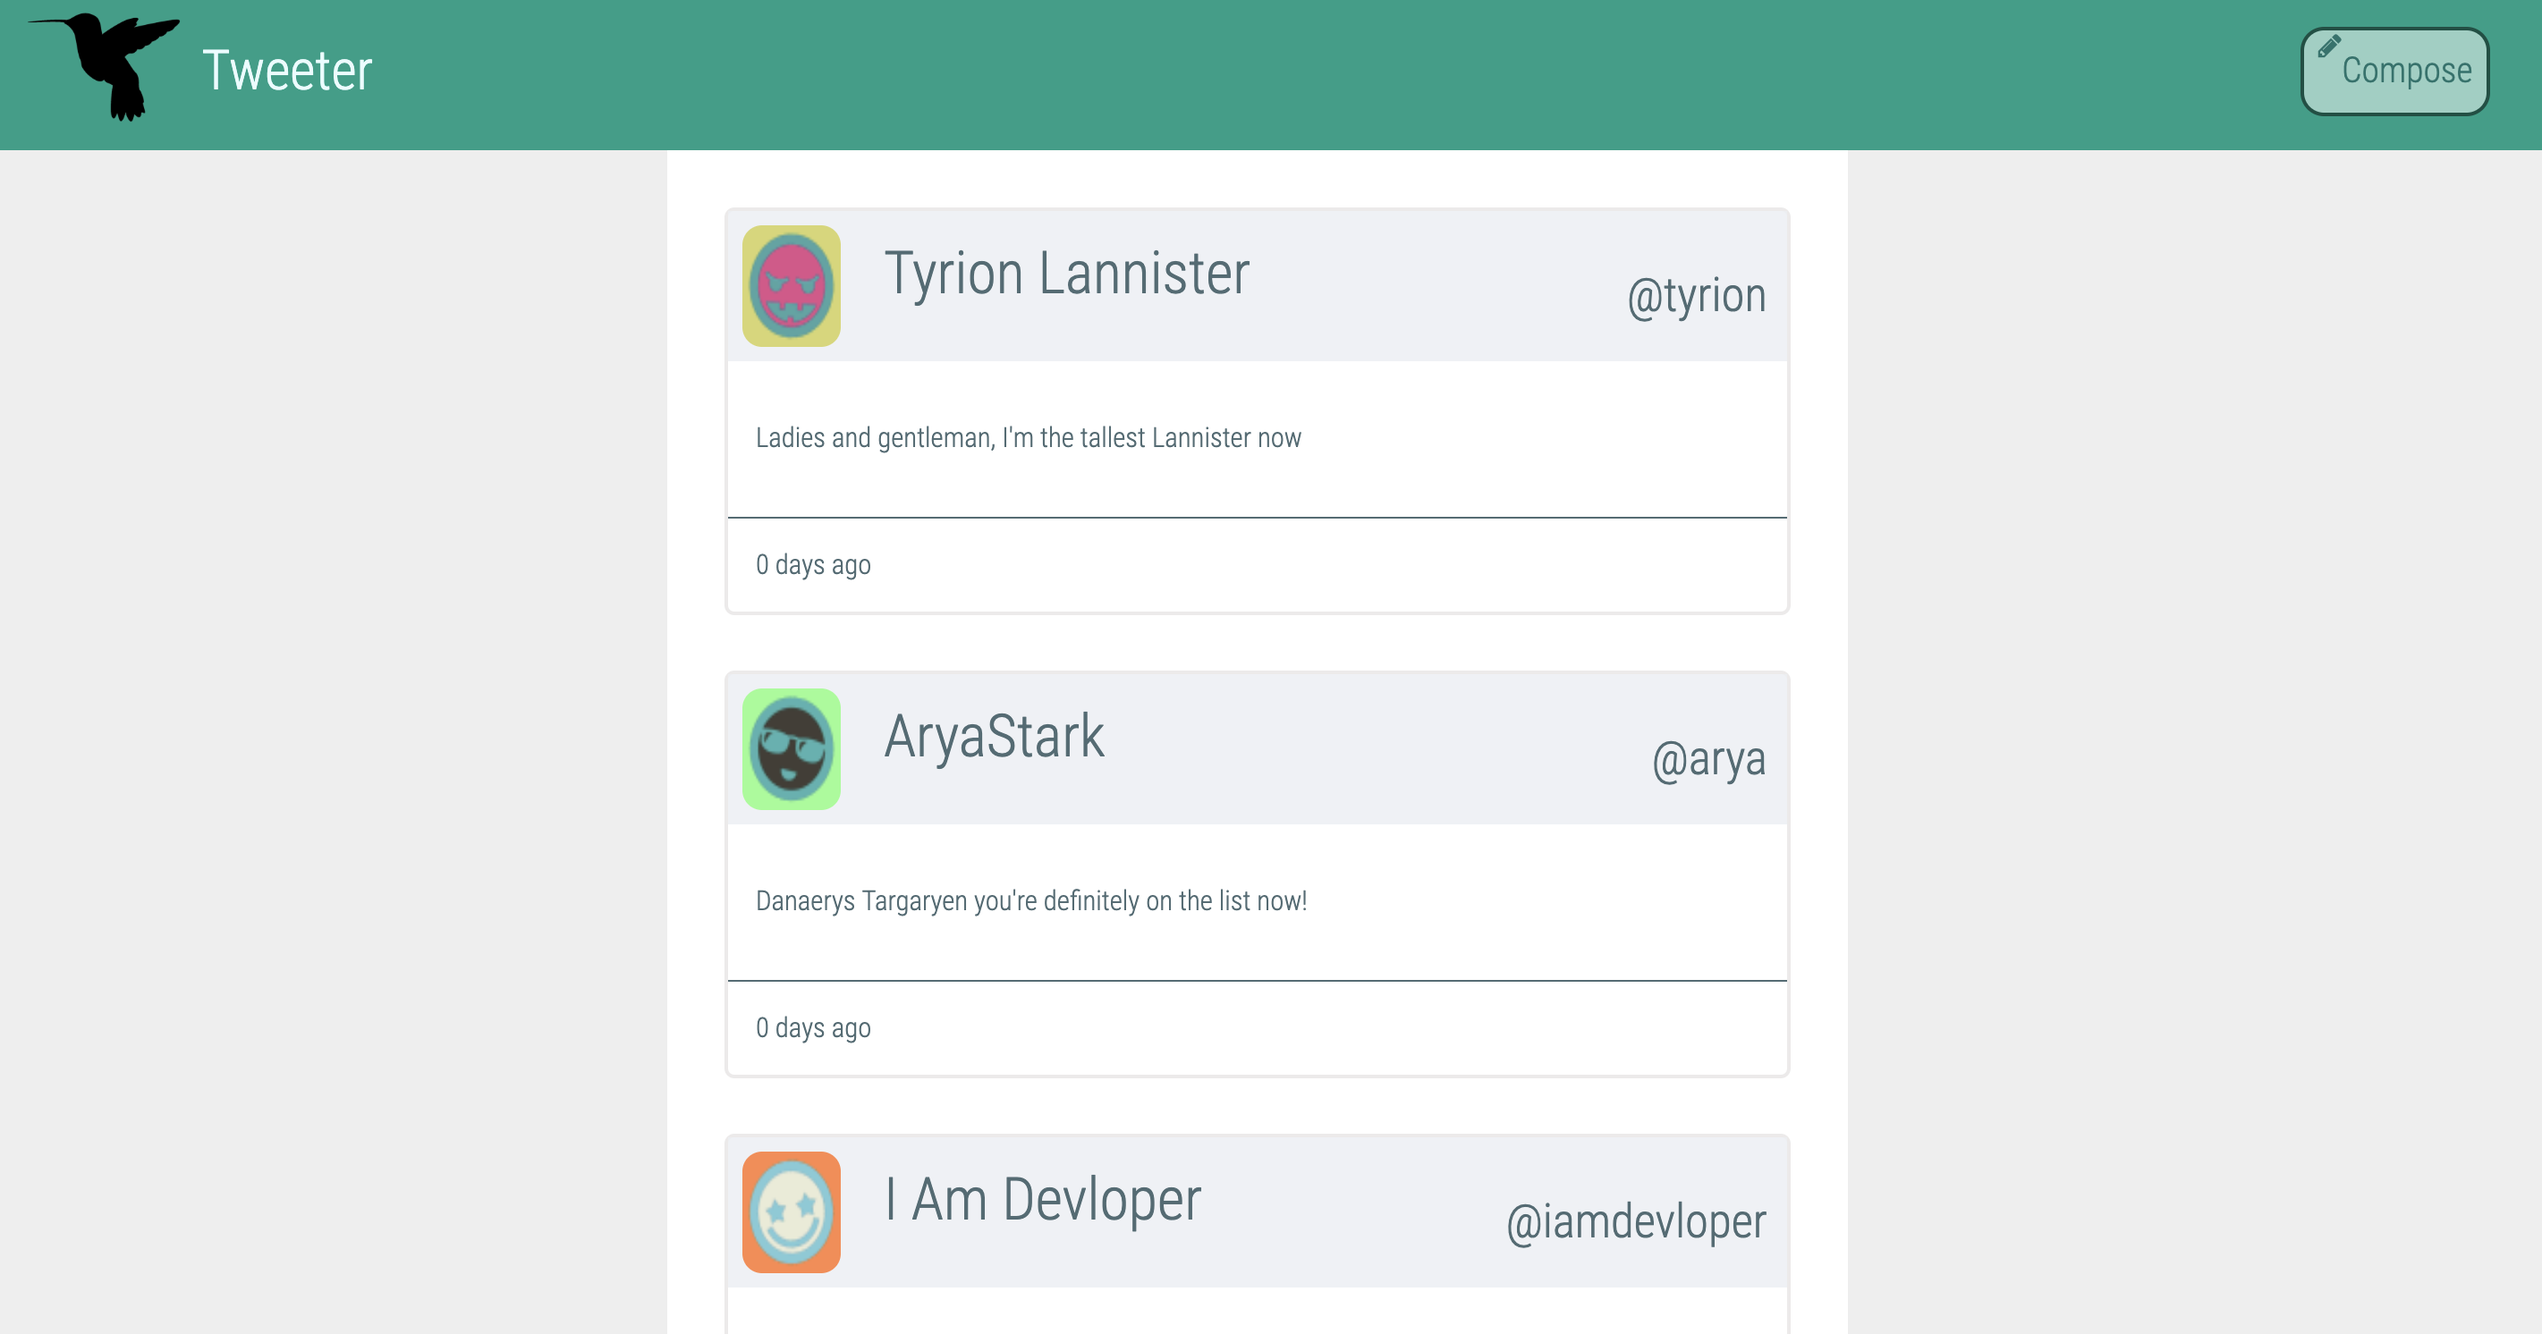
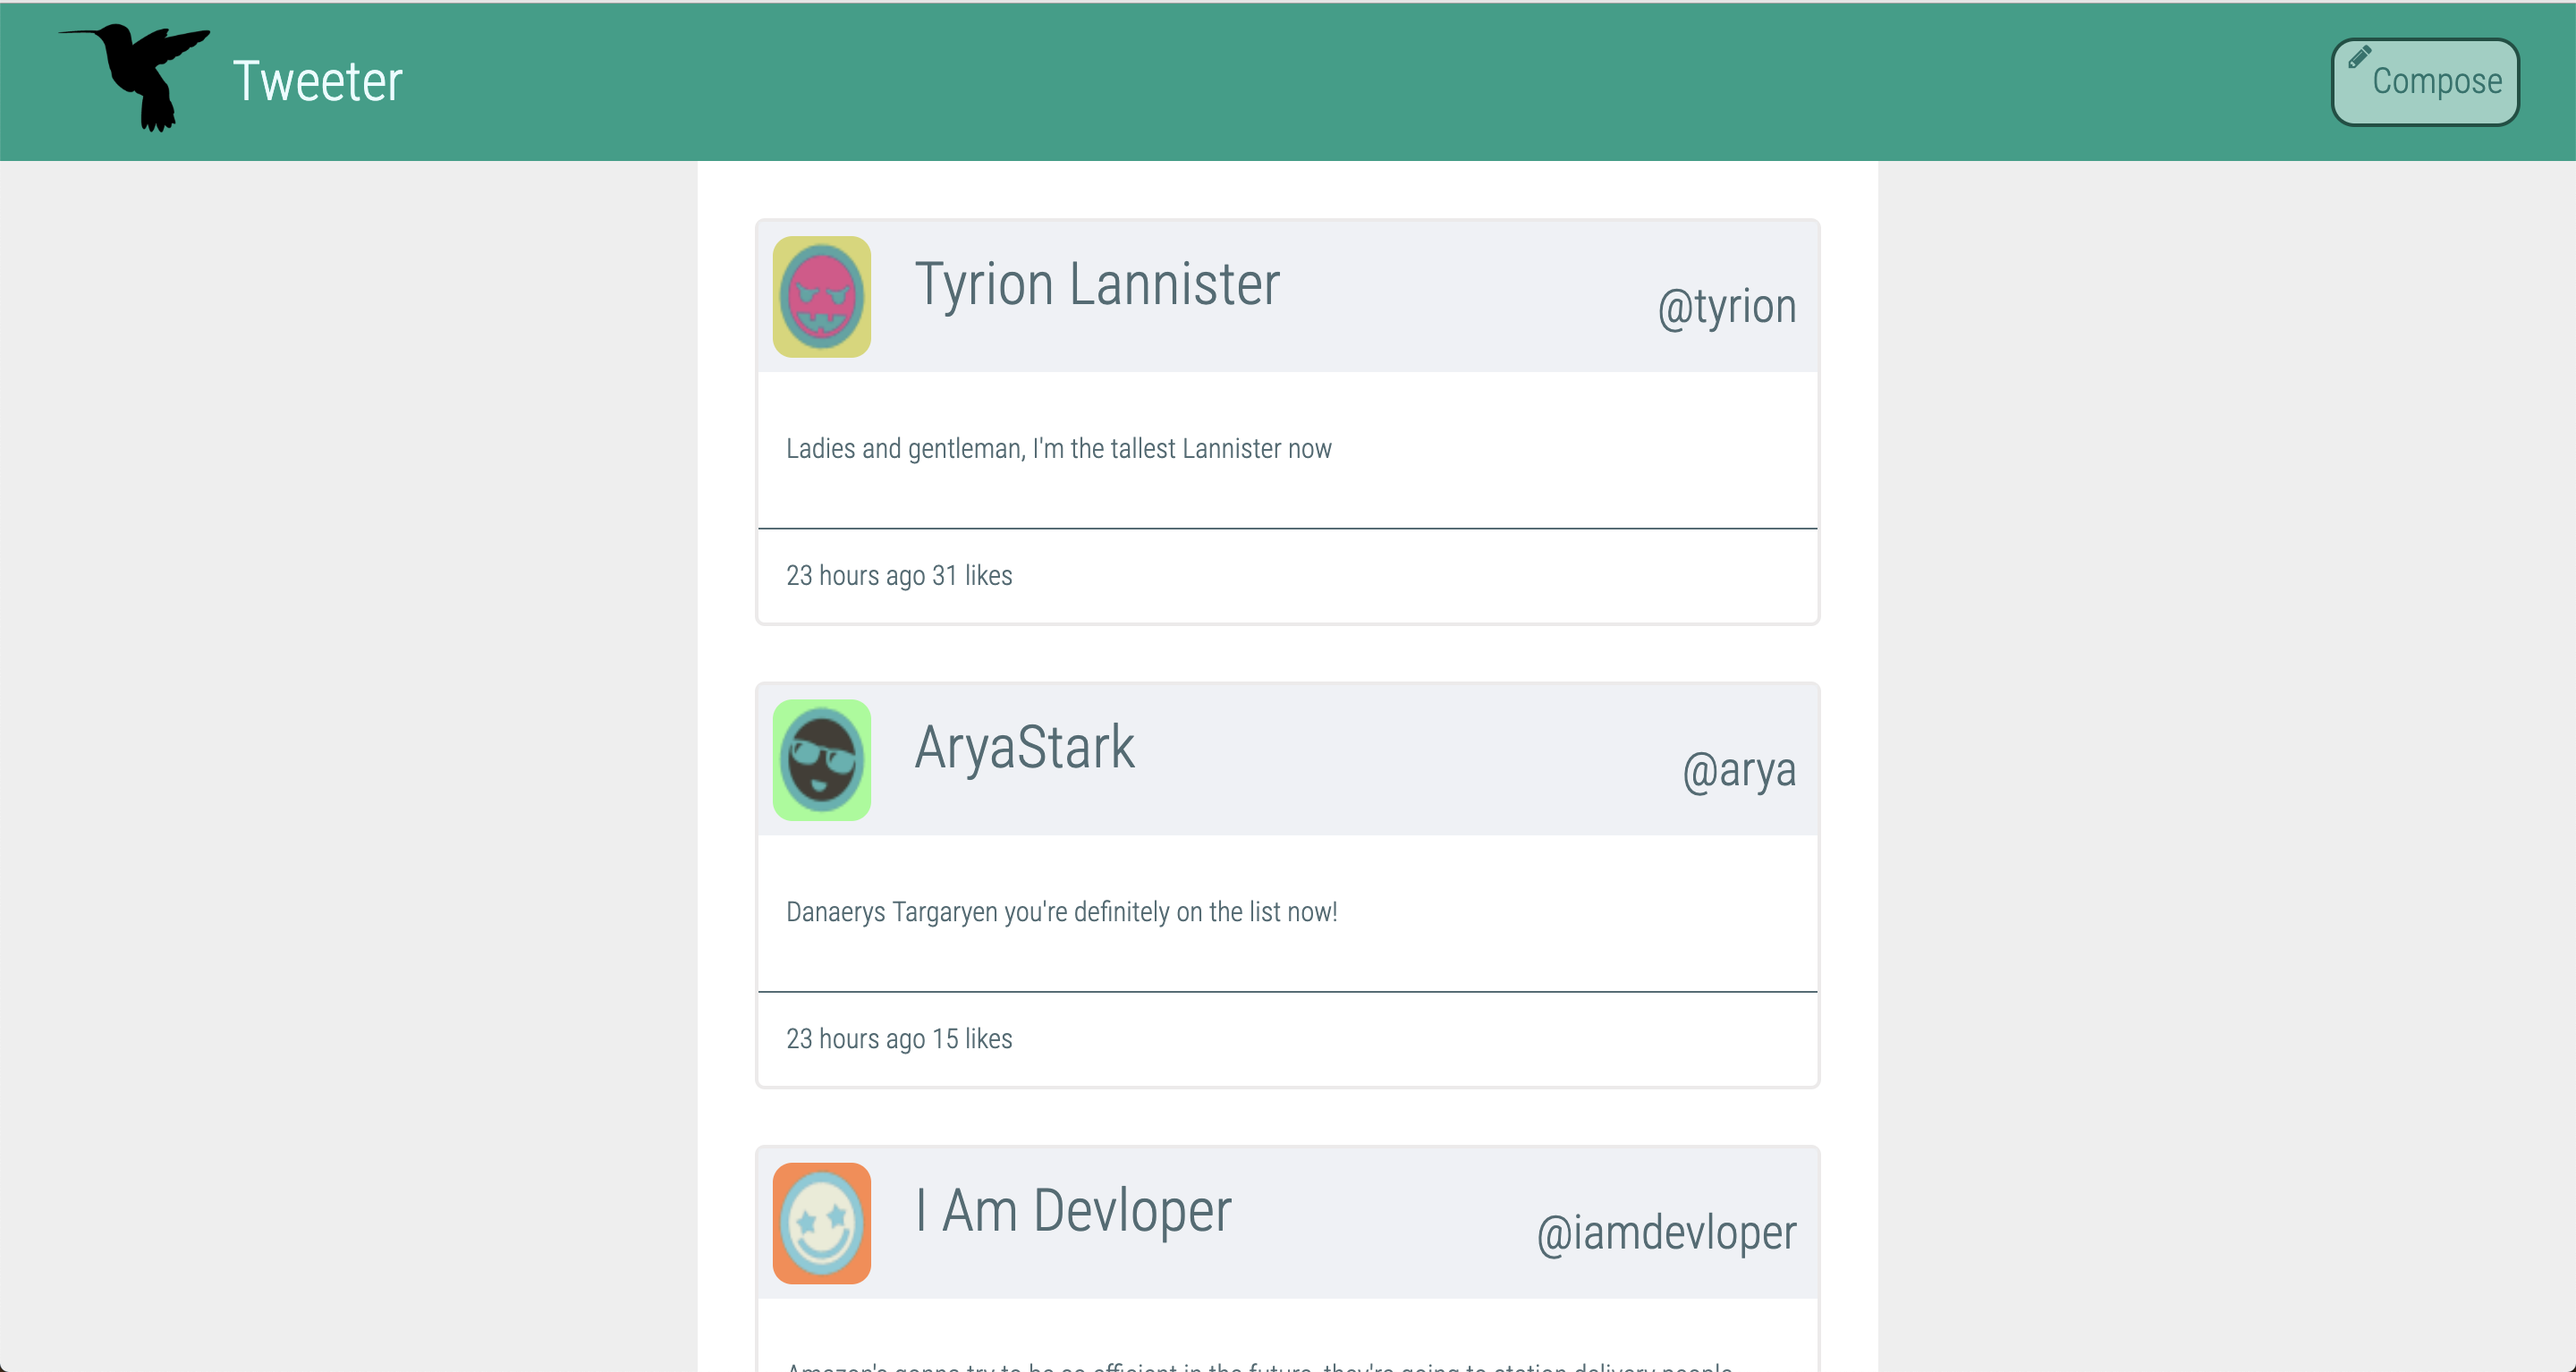
update readme after add likes function

diff --git a/README.md b/README.md
@@ -1,7 +1,12 @@
 # Tweeter Project
-Tweeter is a simple, single-page Twitter clone.
-This repository is the starter code for the project: Students will fork and clone this repository, then build upon it to practice their HTML, CSS, JS, jQuery and AJAX front-end skills, and their Node, Express and MongoDB back-end skills.
-!["new-tweet image"](https://github.com/jitammy/tweeter/blob/master/docs/new-tweets.png)
+- Primarily a client-side Single Page App (SPA)
+- The client-side app communicates with a server via AJAX
+- Tweets are persisted to MongoDB and survive server restart
+## Main features
+- when user clicks compose button, the compose tweeter box will be shown and textarea inside it will be autofocused
+- Tweet charactor counter turns red when more than 140 charactors have been typed
+- When a user clicks a tweet's "Like" button, the "Like" count is updated
+!["new-tweet image"](https://github.com/jitammy/tweeter/blob/master/docs/new-tweet.png)
 !["tweets"](https://github.com/jitammy/tweeter/blob/master/docs/tweets.png)
 ## Dependencies
 - Express
